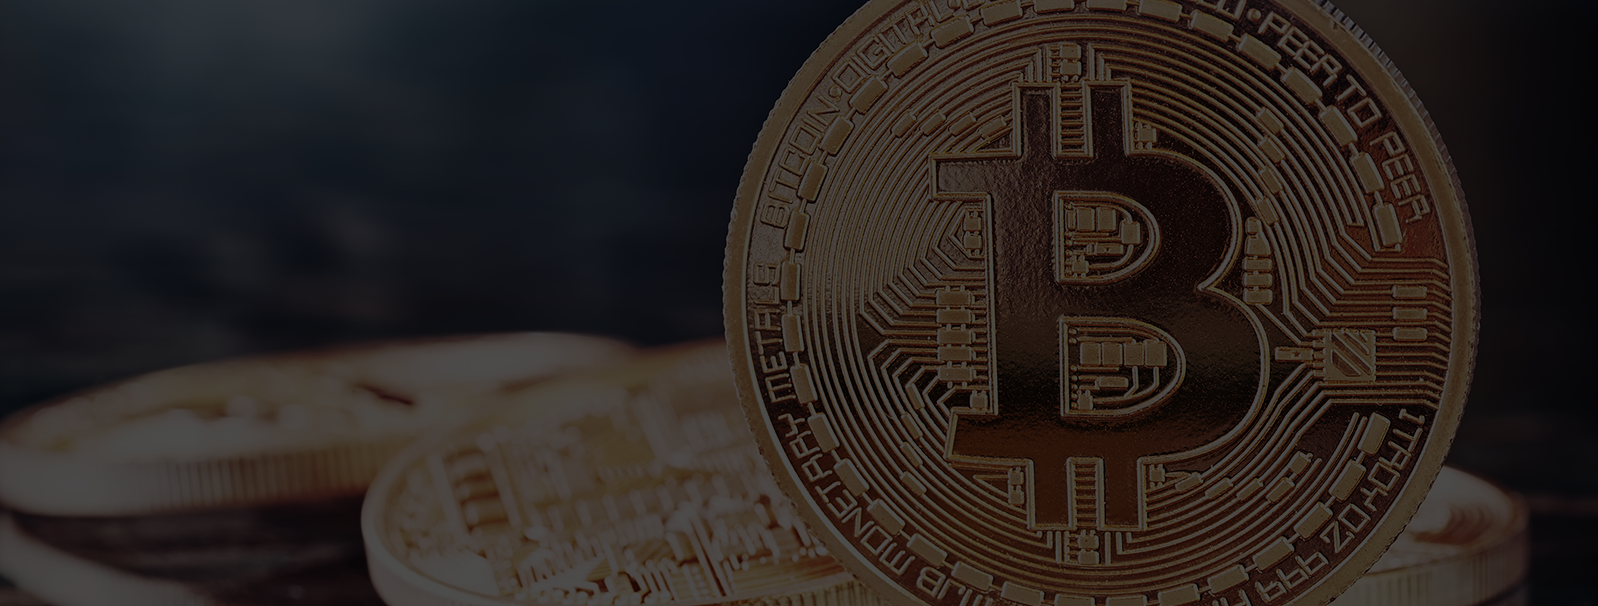
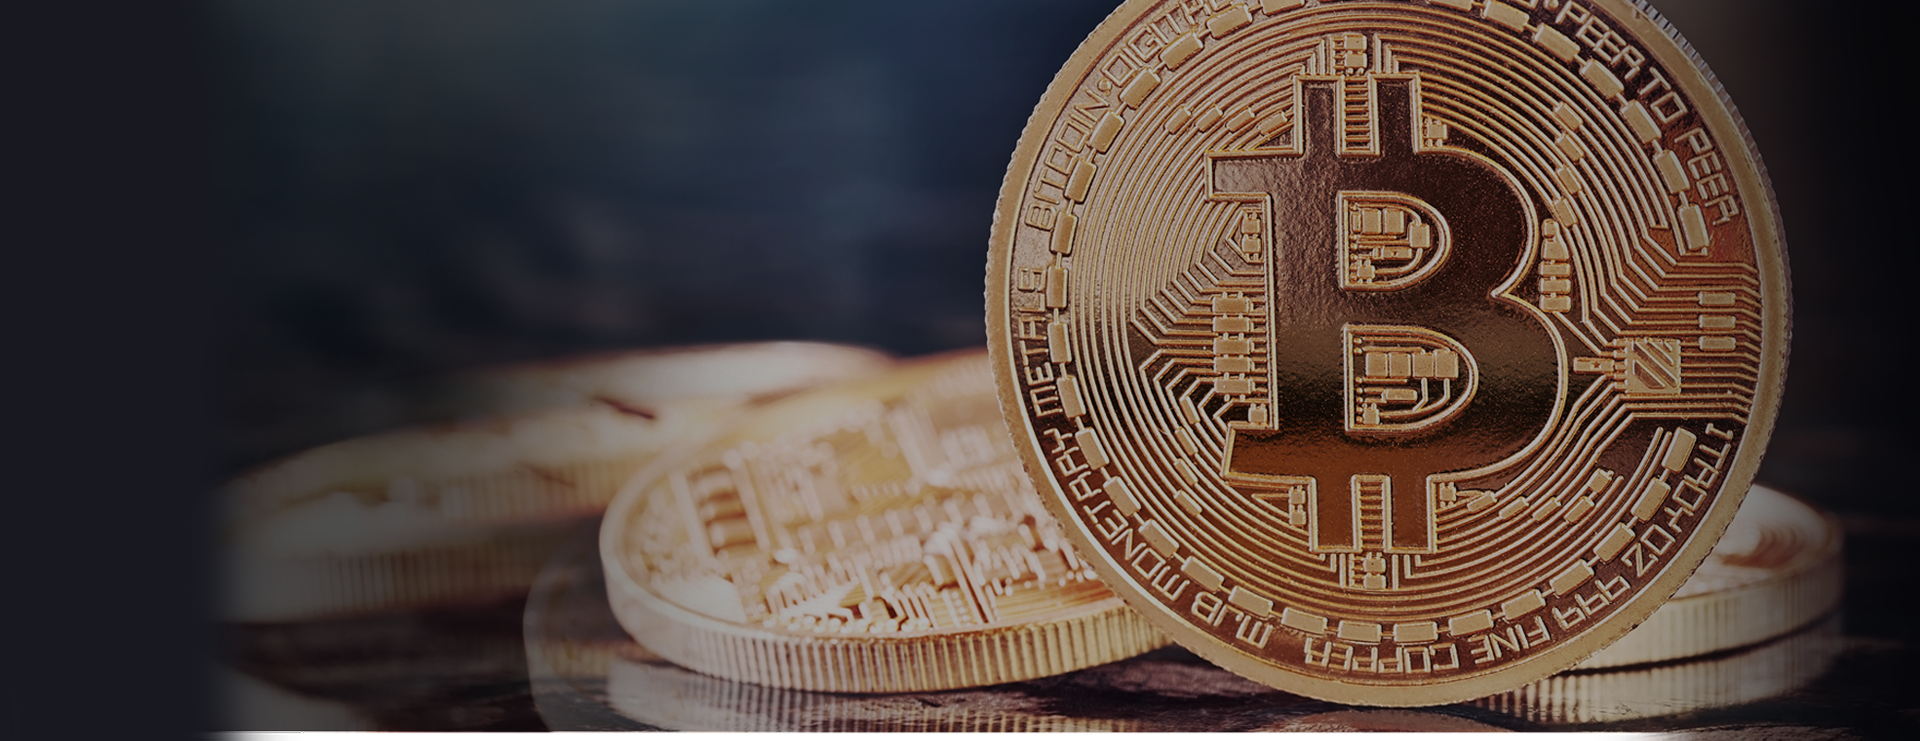
f

diff --git a/assets/templates/crypto/api/style.css b/assets/templates/crypto/api/style.css
@@ -16,7 +16,7 @@
 	/* margin-bottom: 30px; */
 	/* padding-bottom: 33px; */
 	width: 350px;
-	height: 410px;
+	height: 420px;
 	font-size: 16px;
 	background: url('../img/panel-b.png') no-repeat;
 	background-size: cover;
@@ -45,7 +45,7 @@ a {
 
 .price-display {
 	margin-top: 0;
-	padding-top: 20px;
+	padding-top: 30px;
 	font-size: 20px;
 	font-weight: bold;
 	text-align: center;

diff --git a/assets/templates/crypto/css/style.css b/assets/templates/crypto/css/style.css
@@ -68,7 +68,7 @@ body {
 /*Инфо*/
 .info {
   min-height: 600px;
-  background: url("../img/header-t.png") no-repeat center;
+  background: url("../img/header.png") no-repeat top;
   background-size: cover;
   border-bottom: 2px solid black;
 }

diff --git a/assets/templates/crypto/css/media.css b/assets/templates/crypto/css/media.css
@@ -24,7 +24,7 @@
   
   .info {
     /* min-height: 600px; */
-    background: url("../img/header-t.png") no-repeat;
+    background: url("../img/header.png") no-repeat;
     background-size: cover;
   }
   
